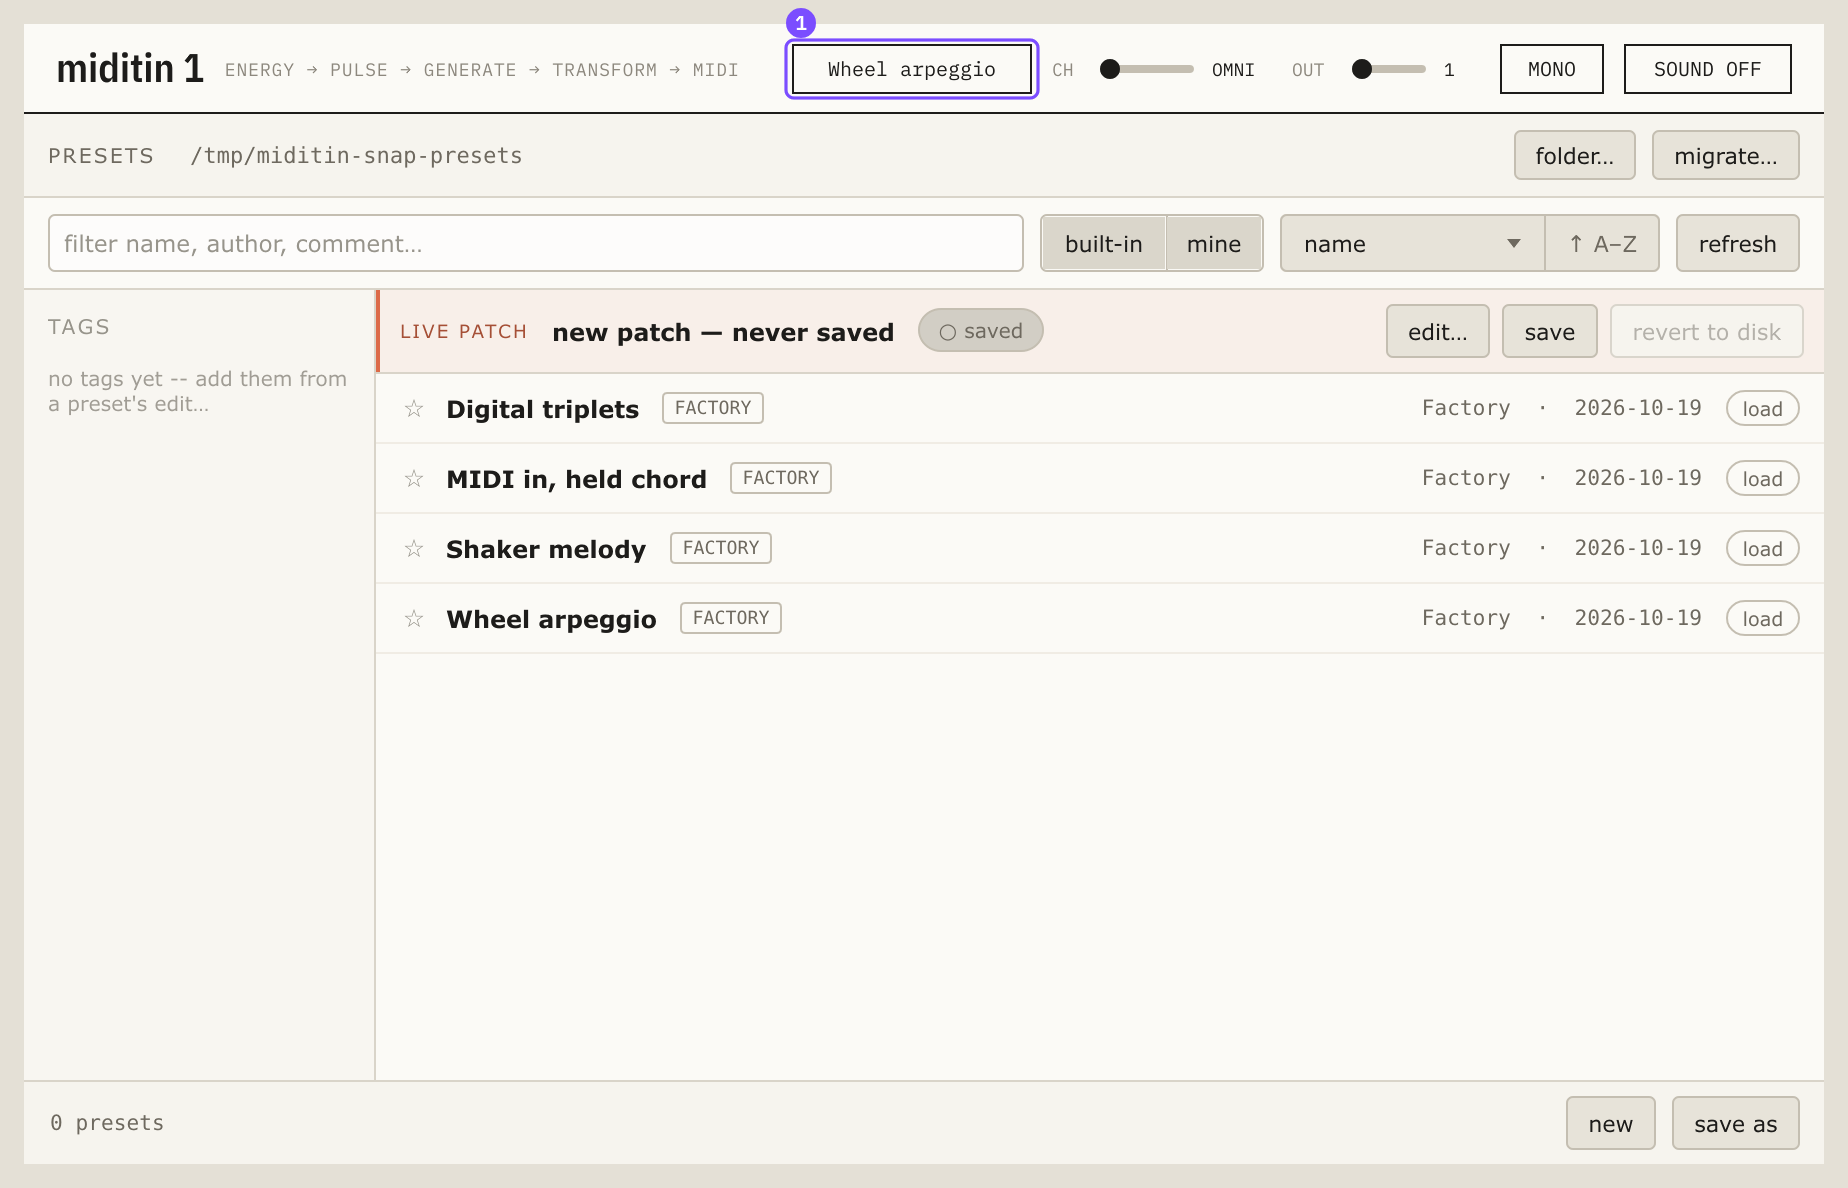
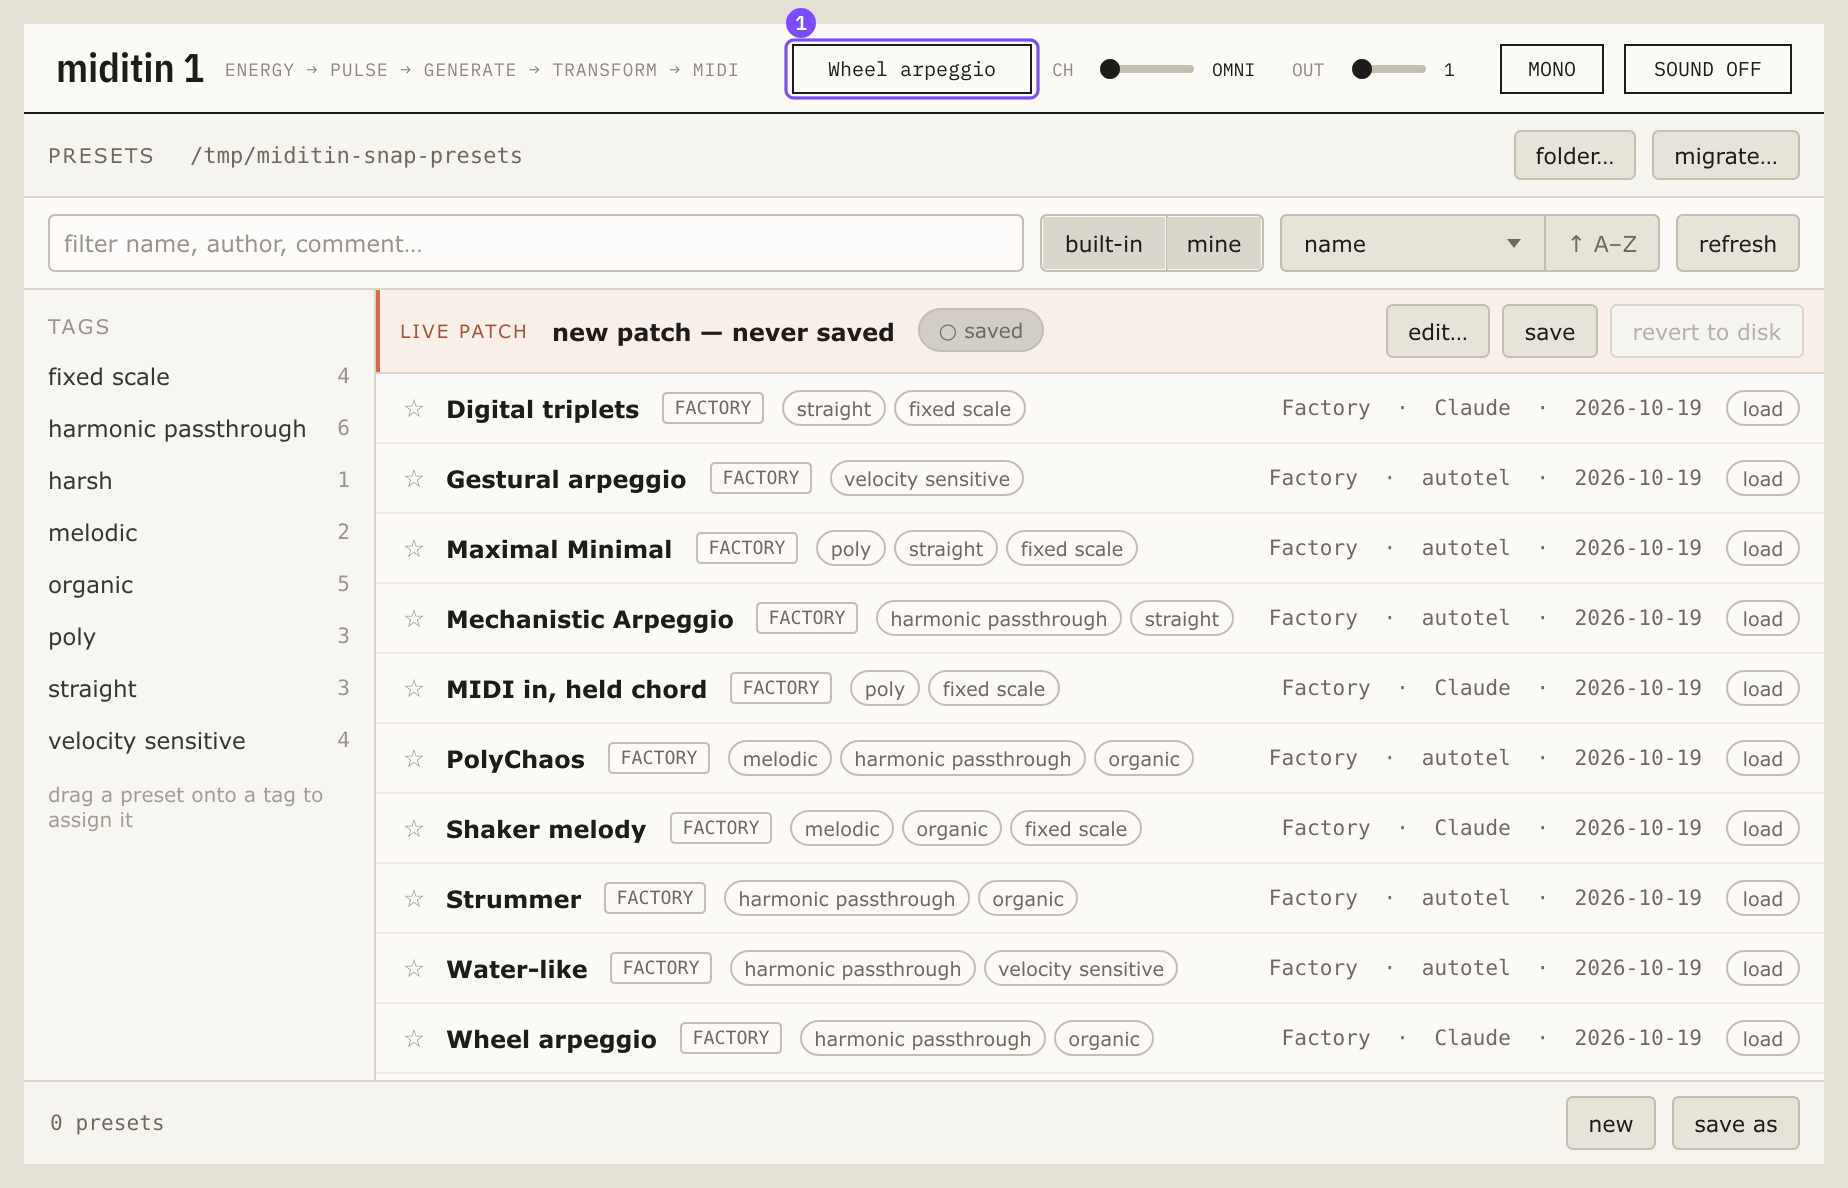
presets

diff --git a/Source/Model/Document.cpp b/Source/Model/Document.cpp
@@ -35,16 +35,22 @@ const std::vector<FactoryPreset>& factoryPresets()
 {
     static const std::vector<FactoryPreset> presets = [] {
         std::vector<FactoryPreset> v;
-        auto add = [&v] (juce::String name, auto&& tweak) {
-            FactoryPreset f { std::move (name), "Factory", {}, ParamValues::defaults() };
+        // Tags are comma-joined, as the librarian stores them. "harmonic passthrough": the output
+        // stays on the held notes; "fixed scale": it is forced into a scale whatever is played.
+        auto add = [&v] (juce::String name, juce::String author, juce::String description, juce::String tags,
+                         auto&& tweak) {
+            FactoryPreset f { std::move (name), "Factory", std::move (author), std::move (description),
+                              juce::StringArray::fromTokens (tags, ",", ""), {}, ParamValues::defaults() };
             tweak (f.patch, f.pv);
             v.push_back (f);
         };
 
         // The defaults: the wheel paces an arpeggio of the held notes.
-        add ("Wheel arpeggio", [] (Patch&, ParamValues&) {});
+        add ("Wheel arpeggio", "Claude", "The defaults: the wheel paces an arpeggio of your held notes.",
+             "harmonic passthrough,organic", [] (Patch&, ParamValues&) {});
 
-        add ("Shaker melody", [] (Patch& p, ParamValues& pv) {
+        add ("Shaker melody", "Claude", "A slow triangle LFO shakes four balls through the melody, in A minor.",
+             "melodic,organic,fixed scale", [] (Patch& p, ParamValues& pv) {
             p.pulse = PulseKind::shaker;
             p.gen = GenKind::melody;
             p.tfMode = TransformMode::scale;
@@ -54,7 +60,8 @@ const std::vector<FactoryPreset>& factoryPresets()
             pv[P::gate] = 240;
         });
 
-        add ("Digital triplets", [] (Patch& p, ParamValues& pv) {
+        add ("Digital triplets", "Claude", "A synced LFO moves a triplet grid; an up/down arpeggio in D dorian.",
+             "straight,fixed scale", [] (Patch& p, ParamValues& pv) {
             p.pulse = PulseKind::digital;
             p.digBase = 3;
             p.gen = GenKind::arp;
@@ -69,7 +76,8 @@ const std::vector<FactoryPreset>& factoryPresets()
             pv[P::gate] = 120;
         });
 
-        add ("MIDI in, held chord", [] (Patch& p, ParamValues& pv) {
+        add ("MIDI in, held chord", "Claude", "Poly: each key you play is one step of 0 1 2 4, in A minor pentatonic.",
+             "poly,fixed scale", [] (Patch& p, ParamValues& pv) {
             p.pulse = PulseKind::midiIn;
             p.voiceMode = VoiceMode::poly;
             p.gen = GenKind::arp;
@@ -79,8 +87,105 @@ const std::vector<FactoryPreset>& factoryPresets()
             p.scale = ScaleType::pentMinor;
             pv[P::gate] = 400;
         });
+
+        add ("Gestural arpeggio", "autotel", "How hard you play spins the wheel through the held notes, with inertia: "
+                                  "dig in to rush it, ease off to let it slow.",
+             "velocity sensitive,harmonic passthrough,organic", [] (Patch& p, ParamValues& pv) {
+            p.enSource = EnergySource::vel;
+            p.enRetrig = true;
+            p.enFilter = EnergyFilter::lpf;
+            pv[P::enDepth] = 1;
+            pv[P::enFilterAmt] = 0.66f;
+            pv[P::whSpeed] = 0.99f;
+            pv[P::whModOffset] = 0.17f;
+            pv[P::velEnergy] = 0.21f;
+            pv[P::velPulse] = 0.52f;
+            pv[P::velInput] = 0.51f;
+        });
+
+        add ("Water-like", "autotel", "A slow swell shakes the balls; the held notes spill out in drips and splashes.",
+             "harmonic passthrough,velocity sensitive,harsh", [] (Patch& p, ParamValues& pv) {
+            p.pulse = PulseKind::shaker;
+            p.enRetrig = true;
+            pv[P::enRate] = 0.17f;
+        });
+
+        add ("Strummer", "autotel", "Simulate strumming. Adjust speed by changing energy's filter.",
+             "harmonic passthrough,organic,velocity sensitive", [] (Patch& p, ParamValues& pv) {
+            p.enSource = EnergySource::vel;
+            p.enRetrig = true;
+            p.enFilter = EnergyFilter::lpf;
+            p.wheelMode = WheelMode::angle;
+            pv[P::enDepth] = 1;
+            pv[P::enFilterAmt] = 0.27f;
+            pv[P::enPhase] = 0.3f;
+            pv[P::whSpeed] = 1.6f;
+            pv[P::whSlices] = 18;
+            pv[P::velEnergy] = 0.2f;
+            pv[P::velPulse] = 0.24f;
+            pv[P::velInput] = 0.75f;
+        });
+
+        add ("PolyChaos", "autotel", "Generates beautiful decorations to chords and melodies.",
+             "melodic,harmonic passthrough,organic,poly,velocity sensitive", [] (Patch& p, ParamValues& pv) {
+            p.voiceMode = VoiceMode::poly;
+            p.enSource = EnergySource::vel;
+            p.enFilter = EnergyFilter::lpf;
+            p.pulse = PulseKind::shaker;
+            p.gen = GenKind::melody;
+            p.melody[6] = 2;
+            p.melody[7] = melTie;
+            p.melTranspose = true;
+            pv[P::enDepth] = 1;
+            pv[P::whSpeed] = 1.01f;
+            pv[P::gate] = 820;
+            pv[P::velEnergy] = 0.3f;
+            pv[P::velPulse] = 0.16f;
+            pv[P::velInput] = 0.71f;
+        });
+
+        add ("Maximal Minimal", "autotel", "Arpeggiate with chords: each held note runs 0 1 2 4 in A minor pentatonic, "
+                                "on the DAW's clock -- press play.",
+             "poly,straight,fixed scale", [] (Patch& p, ParamValues& pv) {
+            p.voiceMode = VoiceMode::poly;
+            p.pulse = PulseKind::midiIn;
+            p.midiInSource = MidiInSource::clock;
+            p.gen = GenKind::arp;
+            p.order = Order::asTyped;
+            p.setArpText ("0 1 2 4");
+            p.tfMode = TransformMode::scale;
+            p.scale = ScaleType::pentMinor;
+            pv[P::gate] = 400;
+            pv[P::velEnergy] = 0.23f;
+            pv[P::velPulse] = 0.17f;
+            pv[P::velInput] = 0.28f;
+        });
+
+        add ("Mechanistic Arpeggio", "autotel", "Works like a conventional arpeggiator; the mod wheel picks the subdivision.",
+             "harmonic passthrough,straight", [] (Patch& p, ParamValues& pv) {
+            p.enSource = EnergySource::cc;
+            p.pulse = PulseKind::digital;
+            p.order = Order::asTyped;
+            pv[P::velEnergy] = 0.35f;
+            pv[P::velPulse] = 0.31f;
+            pv[P::velInput] = 0.3f;
+        });
         return v;
     }();
     return presets;
+}
+
+juce::MemoryBlock factoryPresetData (const FactoryPreset& f, const atl::PresetFormat& format)
+{
+    auto doc = makeDocument (f.patch, f.pv);
+    doc.setProperty (format.nameProperty, f.name, nullptr);
+    doc.setProperty (format.authorProperty, f.author, nullptr);
+    atl::PresetMetadata meta;
+    meta.description = f.description;
+    meta.tags = f.tags;
+    doc.appendChild (meta.toValueTree(), nullptr);
+    juce::MemoryOutputStream out;
+    doc.writeToStream (out);
+    return out.getMemoryBlock();
 }
 } // namespace mdt

diff --git a/Source/UI/Shell.cpp b/Source/UI/Shell.cpp
@@ -199,6 +199,13 @@ void Shell::setPresetPanel (juce::Component* panel)
     addAndMakeVisible (presetsBtn);
     addChildComponent (*panel);
     panel->setBounds (0, headerH, width, height - headerH);
+    // The name box toggles the librarian over everything below the header.
+    presetsBtn.onClick = [this] {
+        const bool open = ! presetPanel->isVisible();
+        presetPanel->setVisible (open);
+        presetsBtn.setOn (open);
+        repaint();
+    };
     layoutControls();
 }
 
@@ -322,10 +329,9 @@ void Shell::layoutControls()
         auto place = [&] (juce::Component& c, int w) { c.setBounds (right - w, y, w, 25); right -= w + 10; };
         place (soundBtn, 84);
         place (voiceBtn, 52);
-        const bool out = p.voiceMode == VoiceMode::mono && p.inChannel == 0;
-        outChannel->setVisible (out);
-        if (out)
-            place (*outChannel, 24 + 6 + 40 + 6 + 18);
+        // OUT keeps its slot when hidden, so showing it never moves CH out from under the mouse.
+        outChannel->setVisible (p.voiceMode == VoiceMode::mono && p.inChannel == 0);
+        place (*outChannel, 24 + 6 + 40 + 6 + 18);
         place (*inChannel, 18 + 6 + 50 + 6 + 30);
         if (presetPanel != nullptr)
             place (presetsBtn, 120);

diff --git a/Tests/ModelTests.cpp b/Tests/ModelTests.cpp
@@ -155,13 +155,20 @@ struct DocumentTests final : juce::UnitTest
         readDocument (doc, p2, pv2);
         expectEquals (pv2.i (P::whSlices), 24);
 
-        beginTest ("factory presets: one per pulse generator, each a valid document");
+        beginTest ("factory presets: every pulse generator, each a valid, described document");
         std::set<PulseKind> kinds;
+        std::set<juce::String> names;
+        const atl::PresetFormat format { ".miditin", documentType };
         for (const auto& f : factoryPresets())
         {
             kinds.insert (f.patch.pulse);
+            expect (names.insert (f.name).second, f.name);
             readDocument (makeDocument (f.patch, f.pv), p2, pv2);
             expect (p2 == f.patch, f.name);
+
+            const auto data = factoryPresetData (f, format);
+            const auto meta = atl::PresetFile::scanMetadataOnlyFromData (data.getData(), (int) data.getSize(), f.name, format);
+            expect (meta.has_value() && meta->description.isNotEmpty() && meta->tags == f.tags && ! f.tags.isEmpty(), f.name);
         }
         expectEquals ((int) kinds.size(), 4);
     }

diff --git a/Source/Model/Document.h b/Source/Model/Document.h
@@ -1,5 +1,6 @@
 #pragma once
 #include <juce_data_structures/juce_data_structures.h>
+#include <PresetFile.h>
 #include "ParamRegistry.h"
 #include "Patch.h"
 
@@ -20,11 +21,16 @@ void readDocument (const juce::ValueTree&, Patch&, ParamValues&);
 
 struct FactoryPreset
 {
-    juce::String name, category;
+    juce::String name, category, author, description;
+    juce::StringArray tags;
     Patch patch;
     ParamValues pv;
 };
 
-/** Shipped inside the binary: one per pulse generator. */
+/** Shipped inside the binary; every pulse generator appears in at least one. */
 const std::vector<FactoryPreset>& factoryPresets();
+
+/** The bytes a .miditin file of this preset would hold, metadata included -- what the librarian's
+    built-in entries point into. */
+juce::MemoryBlock factoryPresetData (const FactoryPreset&, const atl::PresetFormat&);
 } // namespace mdt

diff --git a/Source/PluginEditor.cpp b/Source/PluginEditor.cpp
@@ -47,11 +47,7 @@ MiditinEditor::MiditinEditor (MiditinProcessor& p)
     builtInData.reserve (mdt::factoryPresets().size());   // load-bearing: entries point into it
     for (const auto& f : mdt::factoryPresets())
     {
-        auto doc = mdt::makeDocument (f.patch, f.pv);
-        doc.setProperty (presetFormat().nameProperty, f.name, nullptr);
-        juce::MemoryOutputStream out;
-        doc.writeToStream (out);
-        builtInData.push_back (out.getMemoryBlock());
+        builtInData.push_back (mdt::factoryPresetData (f, presetFormat()));
         builtIns.push_back ({ f.name, f.category, builtInData.back().getData(), (int) builtInData.back().getSize() });
     }
     presetPanel.setColours (panelColours());

diff --git a/Tools/RenderSnapshots.cpp b/Tools/RenderSnapshots.cpp
@@ -135,9 +135,7 @@ void render (const juce::File& dir, const Shot& shot)
     data.reserve (factoryPresets().size());
     for (const auto& f : factoryPresets())
     {
-        juce::MemoryOutputStream out;
-        makeDocument (f.patch, f.pv).writeToStream (out);
-        data.push_back (out.getMemoryBlock());
+        data.push_back (factoryPresetData (f, format));
         builtIns.push_back ({ f.name, f.category, data.back().getData(), (int) data.back().getSize() });
     }
     atl::PresetPanelColours c;

diff --git a/docs/MANUAL.md b/docs/MANUAL.md
@@ -526,6 +526,15 @@ Presets are files ending in `.miditin` in the presets folder (by default
 | Shaker melody | A slow triangle LFO shakes four balls through the melody, in A minor. |
 | Digital triplets | A synced LFO moves a triplet grid; an up/down arpeggio in D dorian. |
 | MIDI in, held chord | POLY, each key you play is one step of `0 1 2 4`, in A minor pentatonic. |
+| Gestural arpeggio | Velocity spins the wheel through your held notes, with inertia: play harder to rush it. |
+| Water-like | A slow swell shakes the balls; your held notes spill out in drips and splashes. |
+| Strummer | The wheel follows velocity by its angle, so each note strums your chord. FILTER sets the speed. |
+| PolyChaos | POLY, every held note shakes its own melody, transposed to it: decorations around a chord. |
+| Maximal Minimal | POLY, each held note runs `0 1 2 4` in A minor pentatonic on the DAW's clock. Press play. |
+| Mechanistic Arpeggio | A conventional arpeggiator: the digital grid plays your notes as played; the mod wheel picks the subdivision. |
+
+Each carries tags: **harmonic passthrough** keeps the output on the notes you hold, **fixed scale**
+forces it into a scale, **poly** gives every held note its own chain.
 
 ---
 
